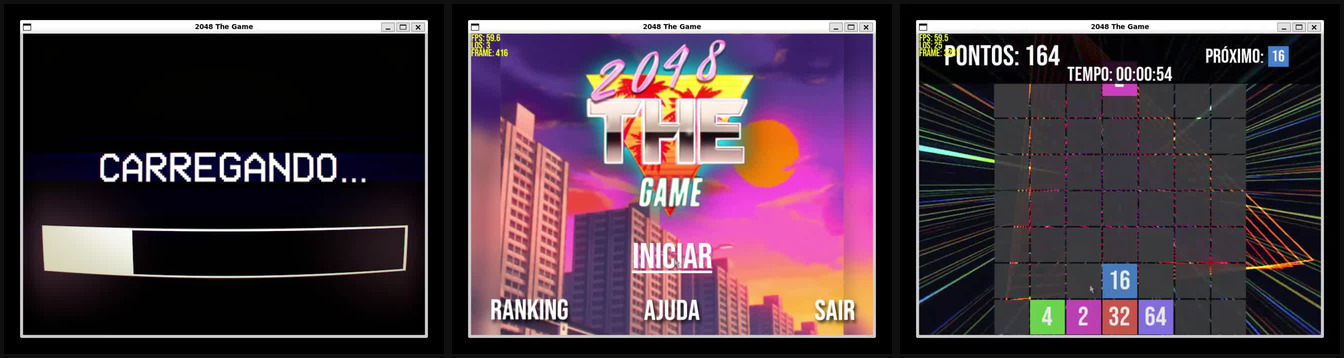
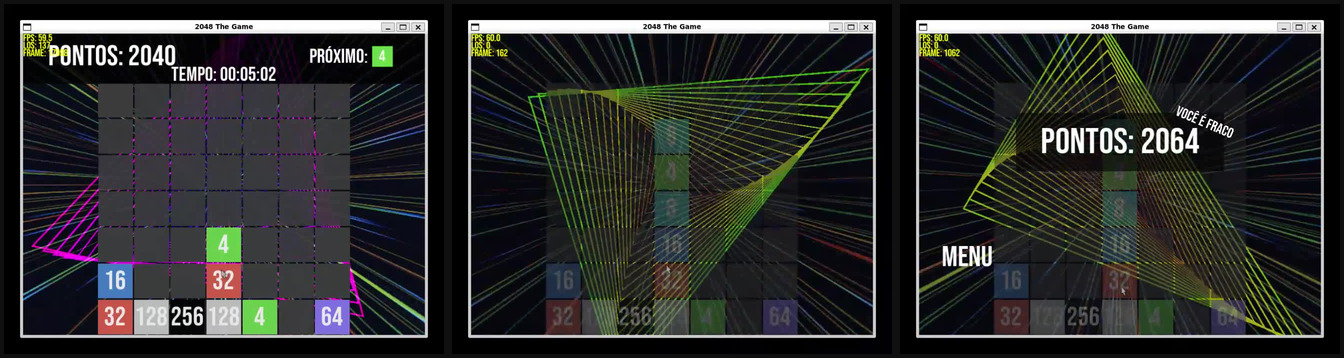
Refresh gameplay preview

diff --git a/README.md b/README.md
@@ -13,9 +13,6 @@ preservados como foram encontrados, inclusive suas datas de modificação.
 
 ![Colagem de momentos do gameplay de 2048 The Game](assets/gameplay-montage.jpg)
 
-Da esquerda para a direita: carregamento (`0:00`), menu (`0:14`) e uma
-partida em andamento (`1:13`).
-
 ## Executar
 
 No Ubuntu/Debian, instale as dependências de compilação:
@@ -35,7 +32,7 @@ make
 
 ## Controles
 
-- O jogo pode ser concluído inteiramente com o mouse: escolha a coluna no
+- O jogo pode ser jogado inteiramente com o mouse: escolha a coluna no
   tabuleiro e use os botões da interface.
 - Como alternativa, as setas esquerda/direita escolhem a coluna e a seta para
   baixo acelera a queda.
@@ -50,10 +47,3 @@ versionado.
 - `source/` — fontes, imagens, animações e áudio usados pelo jogo; a
   animação de carregamento está em `source/loading/`.
 - `Makefile` — atalho atual para compilação local, sem alterar a fonte.
-
-## Nota sobre licenciamento
-
-Não há uma licença explícita nos arquivos originais. Portanto, este
-repositório não concede permissão adicional para reutilização do código ou
-dos assets. As faixas musicais presentes em `source/mus/` permanecem sujeitas
-aos direitos de seus respectivos titulares.
